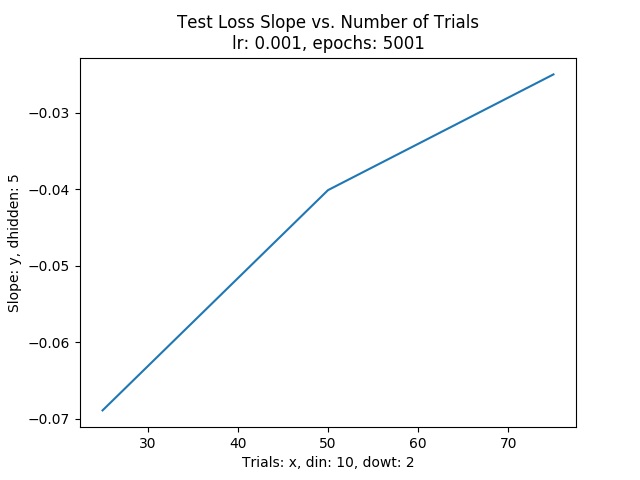
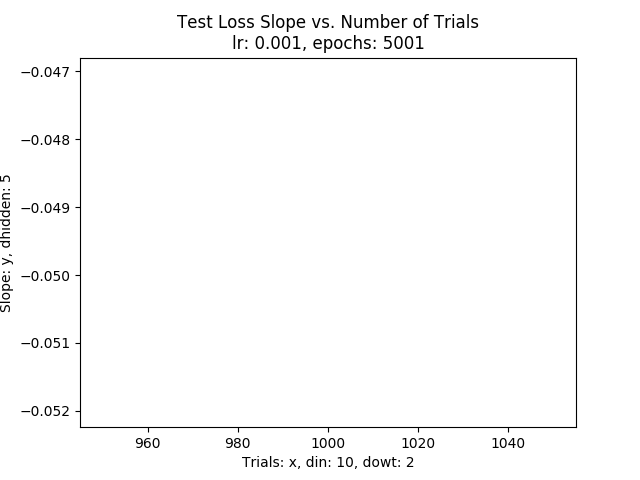
comment cuda call

diff --git a/profile.py b/profile.py
@@ -2,6 +2,7 @@ from fit import handle_all_trials
 from fit import train
 from fit import twoTransformations
 from scipy.stats import linregress
+import time
 
 import matplotlib.pyplot as plt
 import torch
@@ -11,6 +12,7 @@ def fit_data(N, din, dowt, dhidden, lr, epochs, device):
     generate new model, generate new data. Fit it.
     """
     f = twoTransformations(din, dhidden, dowt)
+#   f.cuda()
     x = torch.randn(N, din, device = device)
     y = handle_all_trials(x, N, din, dowt, device)
 
@@ -45,9 +47,12 @@ if __name__ == '__main__':
 #    device = torch.device("cuda:0") #choose hardware
     device = torch.device("cpu")
 
-    sizes = [25*i+25 for i in range(3)]
+    sizes = [25*i+25 for i in range(40)]
+    t0 = time.time()
     slopes = run_all(sizes, din, dowt, dhidden, lr, epochs, device)
-
+    print("total elapsed time: ")
+    print(time.time()-t0)
+    
     plt.plot(sizes, slopes)
     plt.title("Test Loss Slope vs. Number of Trials\nlr: {}, epochs: {}"
               .format(lr, epochs))
